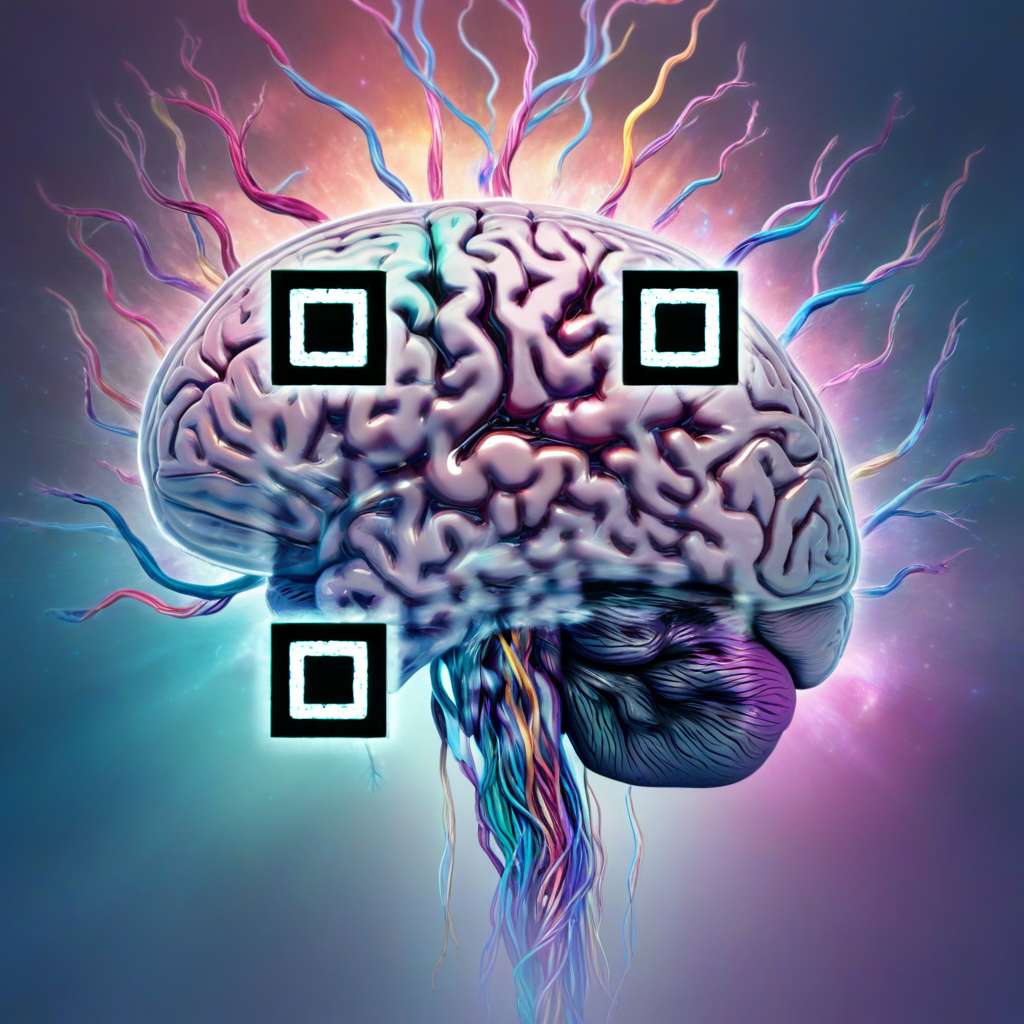
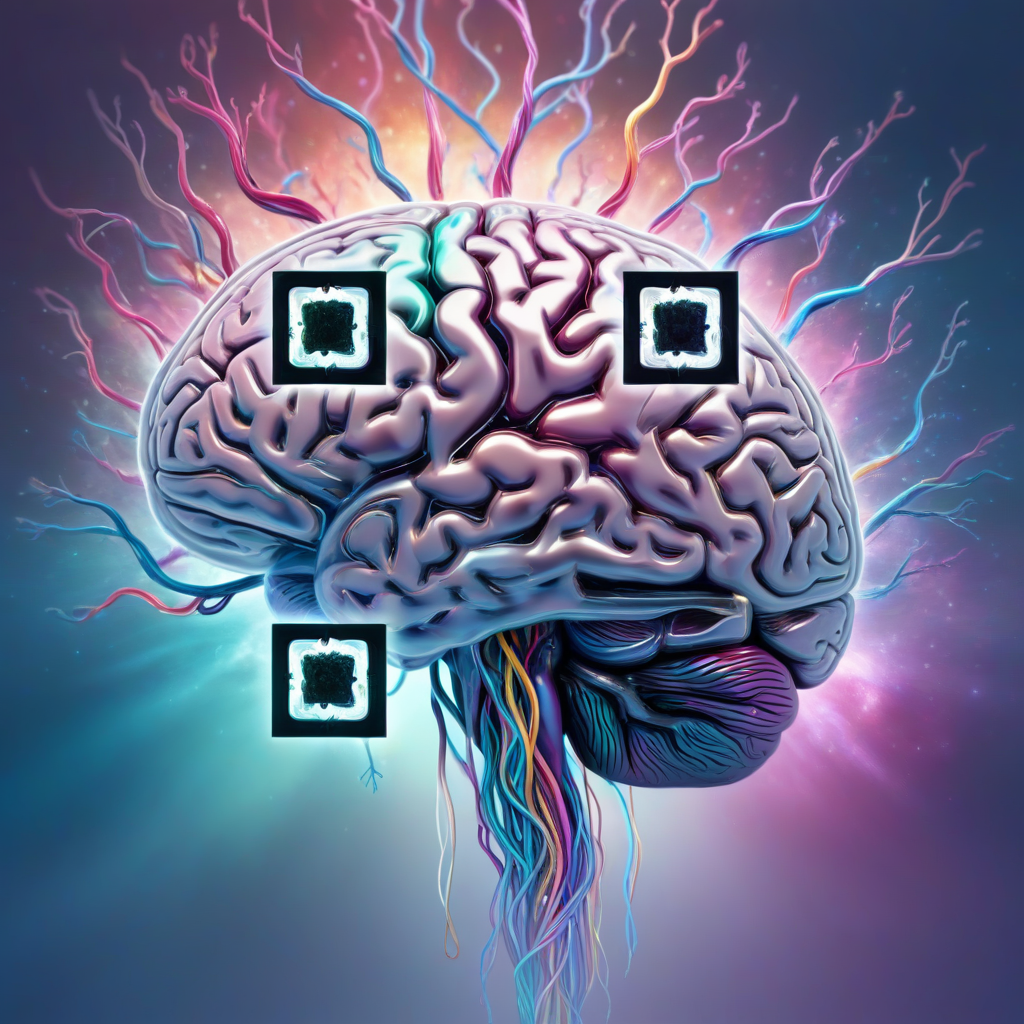
chore: bump horde deps and refresh QR references
- Raise minimum versions for `horde_model_reference` and `horde-sdk` to pick up required APIs (`component_identity` and `ExtraTextEntry`).
- Update QR code expected images to match current output.
- README testing docs now include explicit guidance for regenerating and reviewing reference images, including QR scan validation.

diff --git a/README.md b/README.md
@@ -216,6 +216,25 @@ quick feedback.
 
 Tests require a CUDA GPU, `AIWORKER_CACHE_HOME`, `CIVIT_API_TOKEN`, and the committed `images_expected/` reference images. Image-output tests compare generated images against references via cosine/histogram similarity. Set `HORDELIB_SKIP_SIMILARITY_FAIL=1` to downgrade similarity failures to skips on different hardware.
 
+#### Updating a reference image
+
+Every image-output test writes its render to `images/<name>.png` and compares it against
+`images_expected/<name>.png`. There is no regeneration flag: when a deliberate change to a graph or
+binding makes a reference no longer describe what the code produces, run that test module on a CUDA
+GPU and copy the render over the reference:
+
+```bash
+uv run --no-sync pytest tests/test_horde_inference_qr_code.py
+cp images/qr_code_xl.png images_expected/qr_code_xl.png
+```
+
+Copy only the references the change actually moved, and inspect each one before committing. The
+similarity oracle is deliberately loose (a changed render often still passes against the old
+reference), so a passing test is not on its own evidence that a reference is current; conversely a
+reference that passes with almost no margin will start failing on unrelated drift. For QR renders,
+also confirm the new reference still scans, since the oracle scores pixels and cannot see that a
+code stopped decoding.
+
 ### Key test areas
 
 | Path | What it covers |
